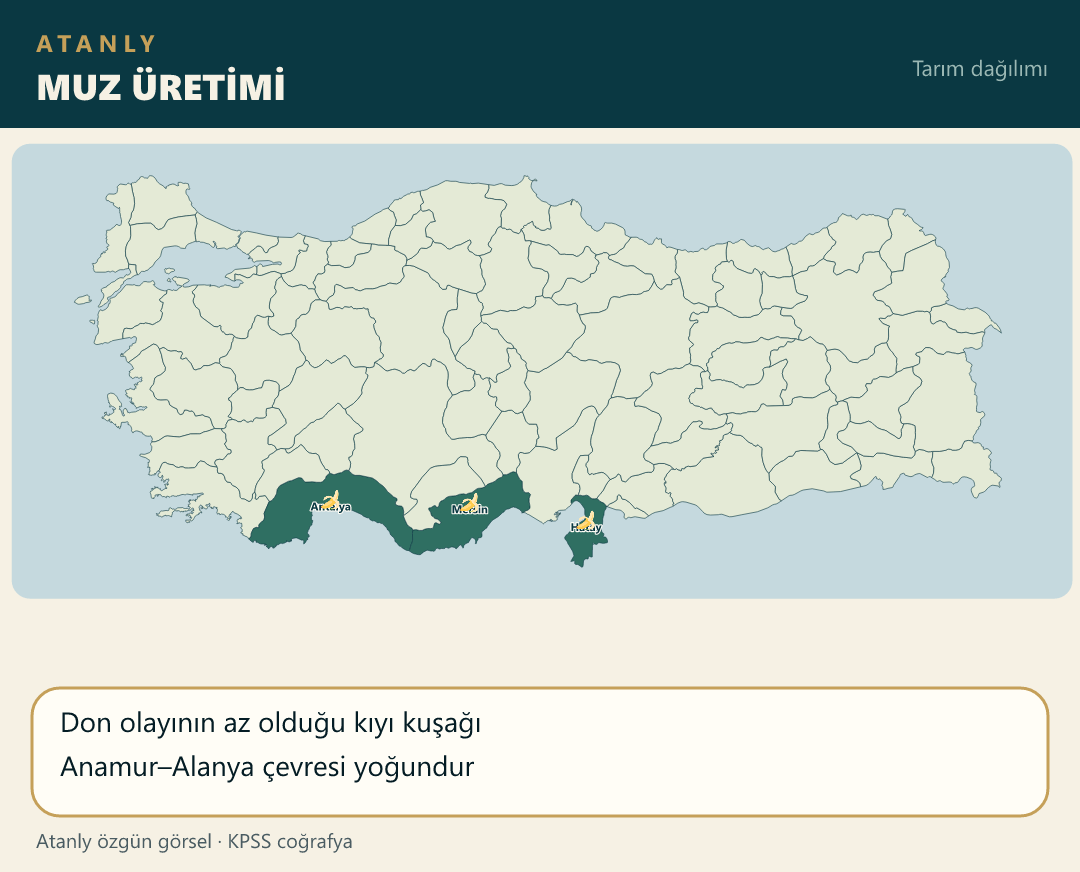
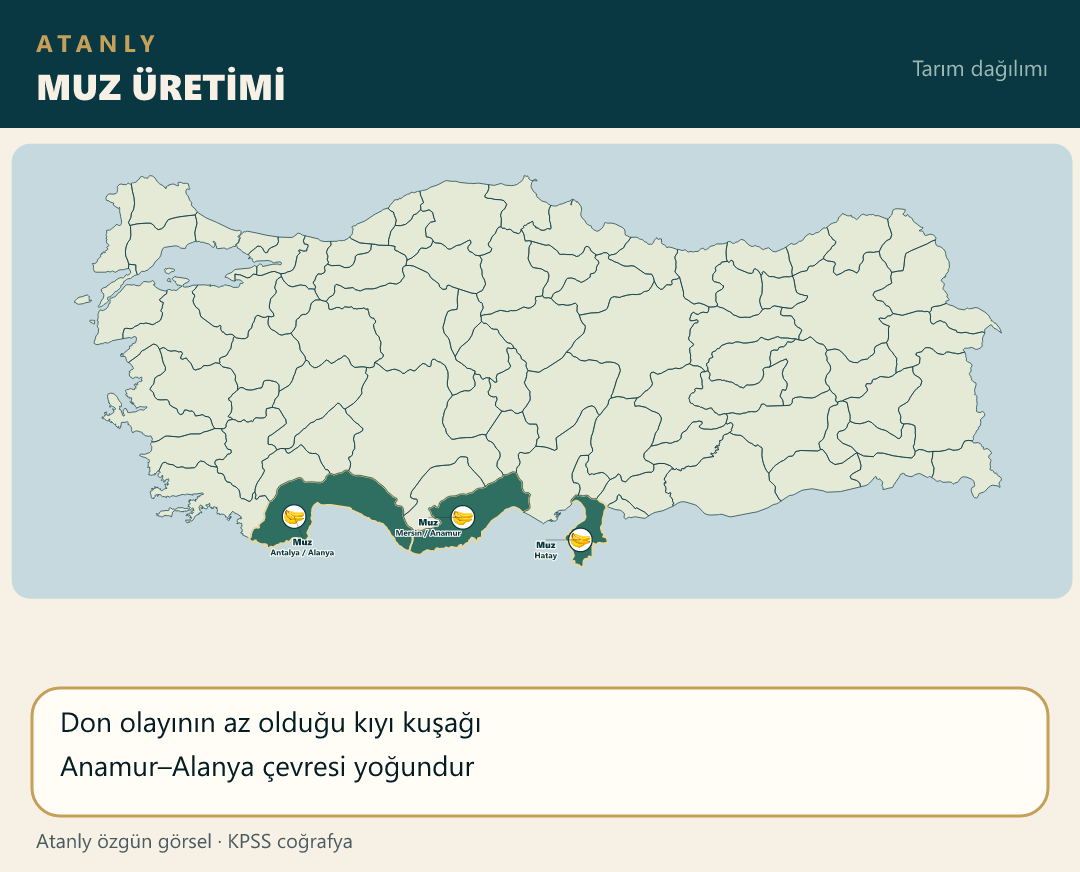
Place the banana photo on Mersin, Antalya, and Hatay land-center pins.

diff --git a/scripts/build-atanly-maps.js b/scripts/build-atanly-maps.js
@@ -655,7 +655,13 @@ function main() {
                 { il: "Iğdır", ilce: "Tuzluca", ldx: -36, ldy: 6 }
             ],
             facts: ["Malatya dünya ölçeğinde öne çıkar", "Kurutmalık kayısı ihracatı önemlidir"] },
-        { file: "muz.png", title: "MUZ ÜRETİMİ", iller: ["Mersin", "Antalya", "Hatay"], facts: ["Don olayının az olduğu kıyı kuşağı", "Anamur–Alanya çevresi yoğundur"] },
+        { file: "muz.png", title: "MUZ ÜRETİMİ", urun: "Muz",
+            noktalar: [
+                { il: "Mersin", ilce: "Anamur", ldx: -34, ldy: 8 },
+                { il: "Antalya", ilce: "Alanya", ldx: 8, ldy: 28 },
+                { il: "Hatay", ldx: -34, ldy: 8 }
+            ],
+            facts: ["Don olayının az olduğu kıyı kuşağı", "Anamur–Alanya çevresi yoğundur"] },
         { file: "anason.png", title: "ANASON ÜRETİMİ", urun: "Anason",
             noktalar: [
                 { il: "Burdur", ilce: "Tefenni" },

diff --git a/notlar/cografya-19-not.js b/notlar/cografya-19-not.js
@@ -2,7 +2,7 @@
 (function () {
     function harita(src, alt) {
         return '<div class="mt-4 overflow-hidden rounded-xl border border-blue-200 dark:border-blue-700/50 bg-white dark:bg-slate-800 p-2">' +
-            '<img src="./src/img/' + src + '?v=30" alt="' + alt + ' Haritası" class="w-full h-auto rounded-lg object-contain" loading="lazy">' +
+            '<img src="./src/img/' + src + '?v=31" alt="' + alt + ' Haritası" class="w-full h-auto rounded-lg object-contain" loading="lazy">' +
             "</div>";
     }
 

diff --git a/index.html b/index.html
@@ -117,7 +117,7 @@
     <script src="notlar/cografya-16-not.js?v=3"></script>
     <script src="notlar/cografya-17-not.js?v=3"></script>
     <script src="notlar/cografya-18-not.js?v=17"></script>
-    <script src="notlar/cografya-19-not.js?v=26"></script>
+    <script src="notlar/cografya-19-not.js?v=27"></script>
     <script src="notlar/cografya-20-not.js?v=1"></script>
     <script src="notlar/cografya-21-not.js?v=32"></script>
     <script src="notlar/cografya-22-not.js?v=1"></script>
